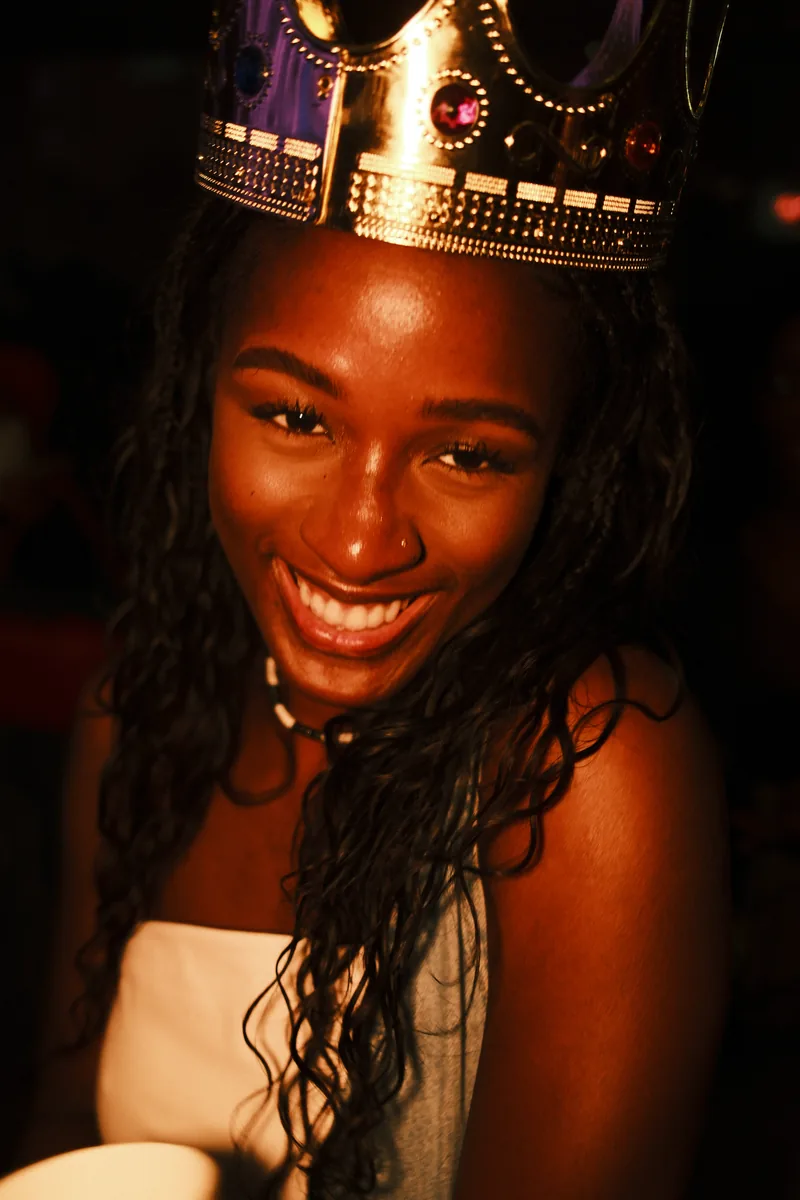
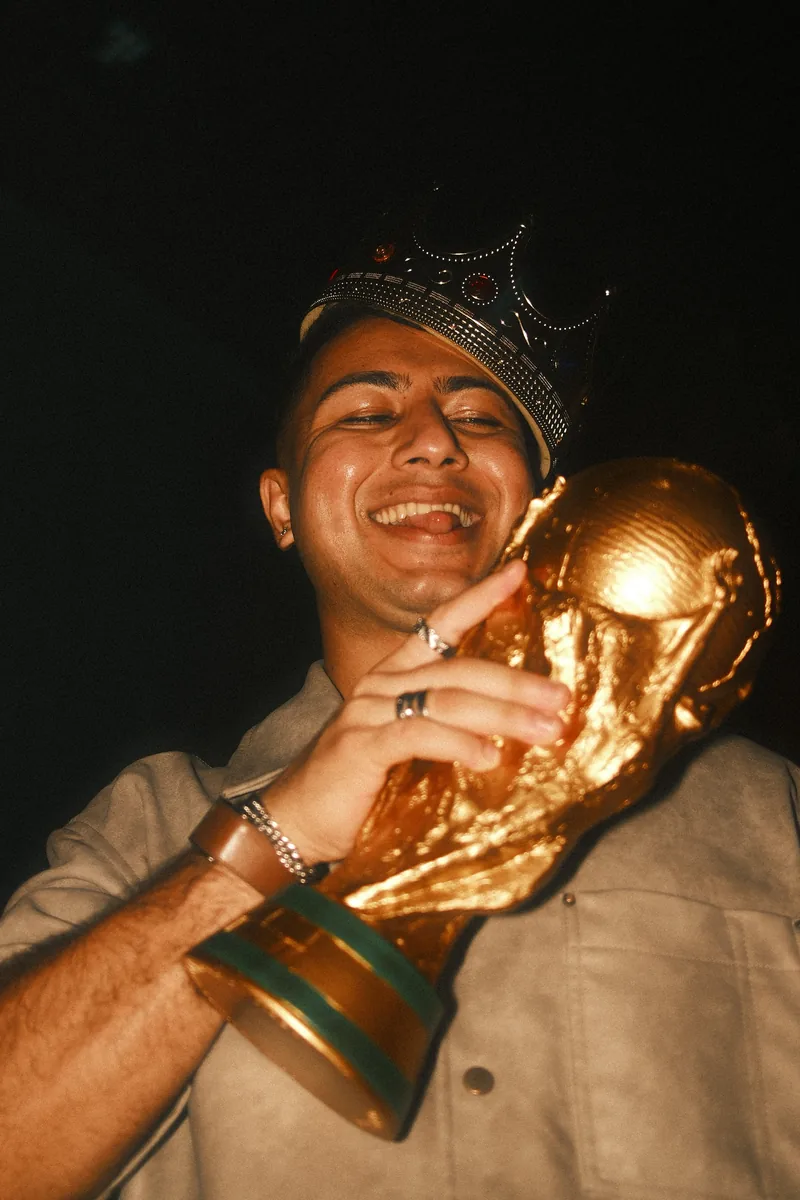
Crowned: the trophy photo
Swaps Crowned for the crown and trophy shot (fuji 14, _DSF5185), cropped 2:3 to drop the empty black above and the stray hand at the right. Same slug, so links and the favorites order stay.

diff --git a/lib/content.ts b/lib/content.ts
@@ -354,14 +354,14 @@ export const photos: Photo[] = [
   },
   {
     slug: "2026-crowned",
-    accent: "#462110",
+    accent: "#5D4128",
     width: 1600,
     height: 2400,
     title: "Crowned",
     place: "2026",
     category: "Nights out",
-    settings: "f/2.0, 1/60s, ISO 500",
-    alt: "A friend in a gold crown smiling straight at the camera, long wavy hair, warm amber light",
+    settings: "f/2.0, 1/60s, ISO 200",
+    alt: "A friend in a gold crown laughs with his eyes closed, hugging a gold trophy to his cheek",
     featured: true,
   },
   {
